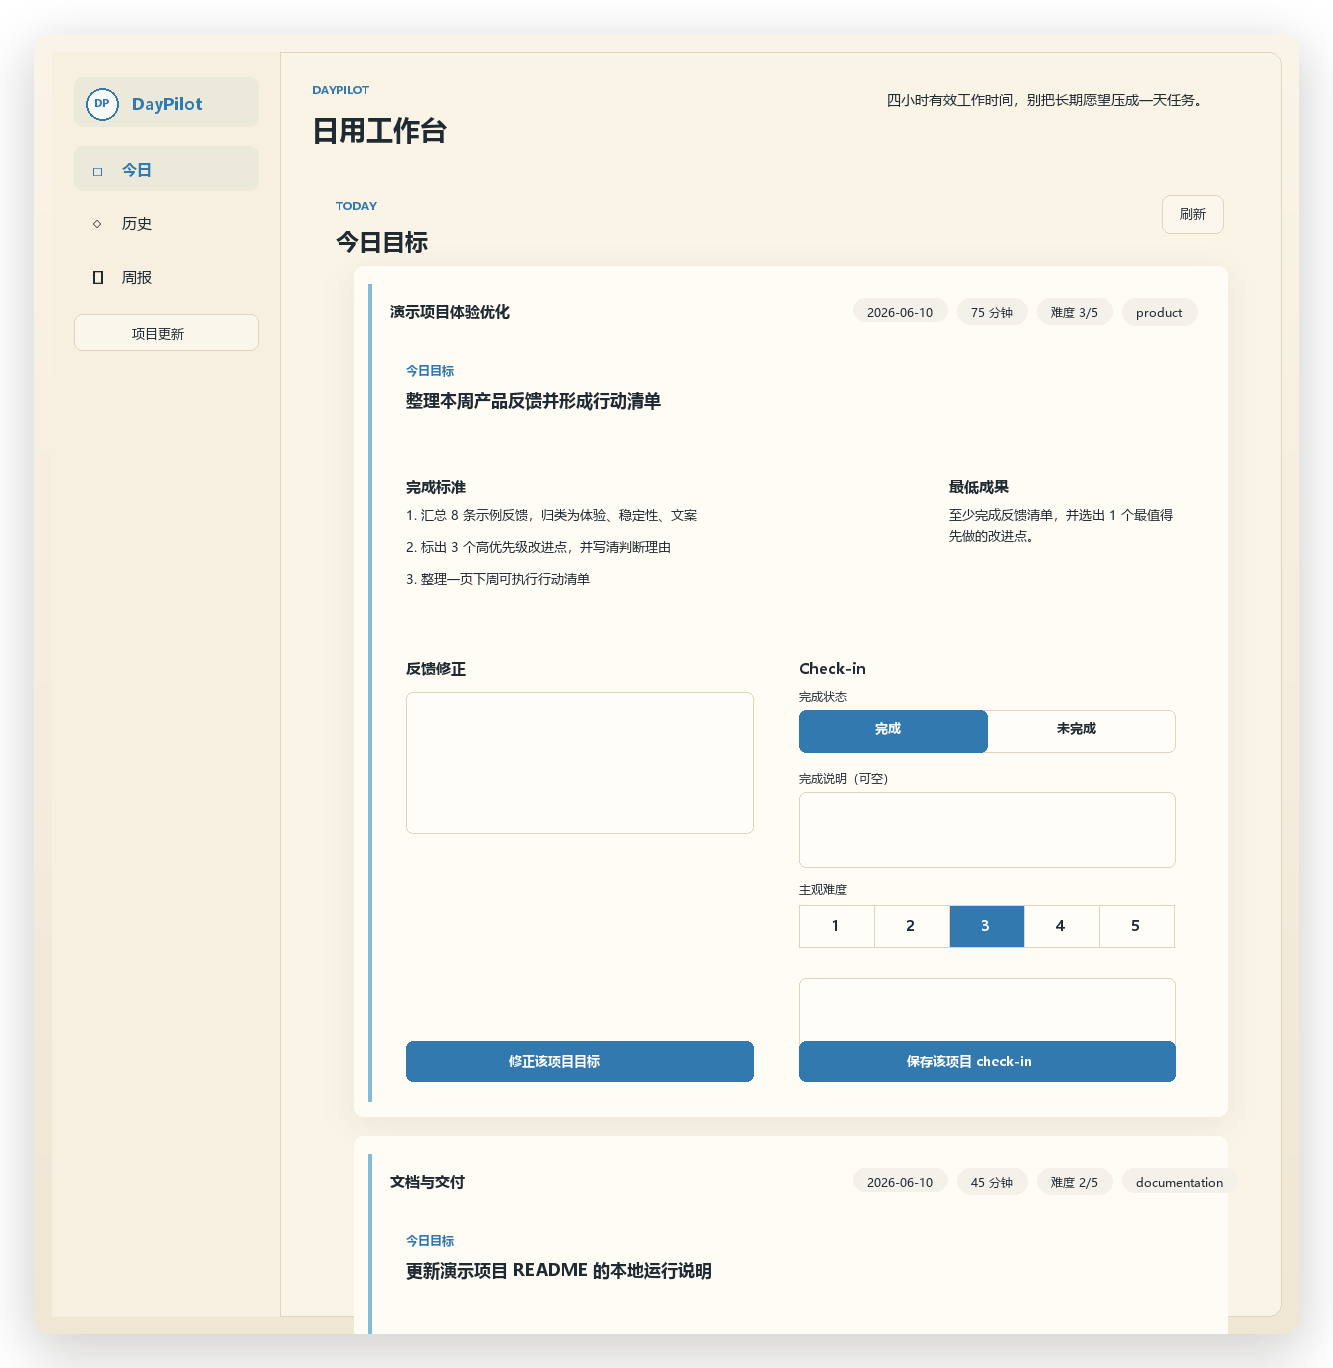
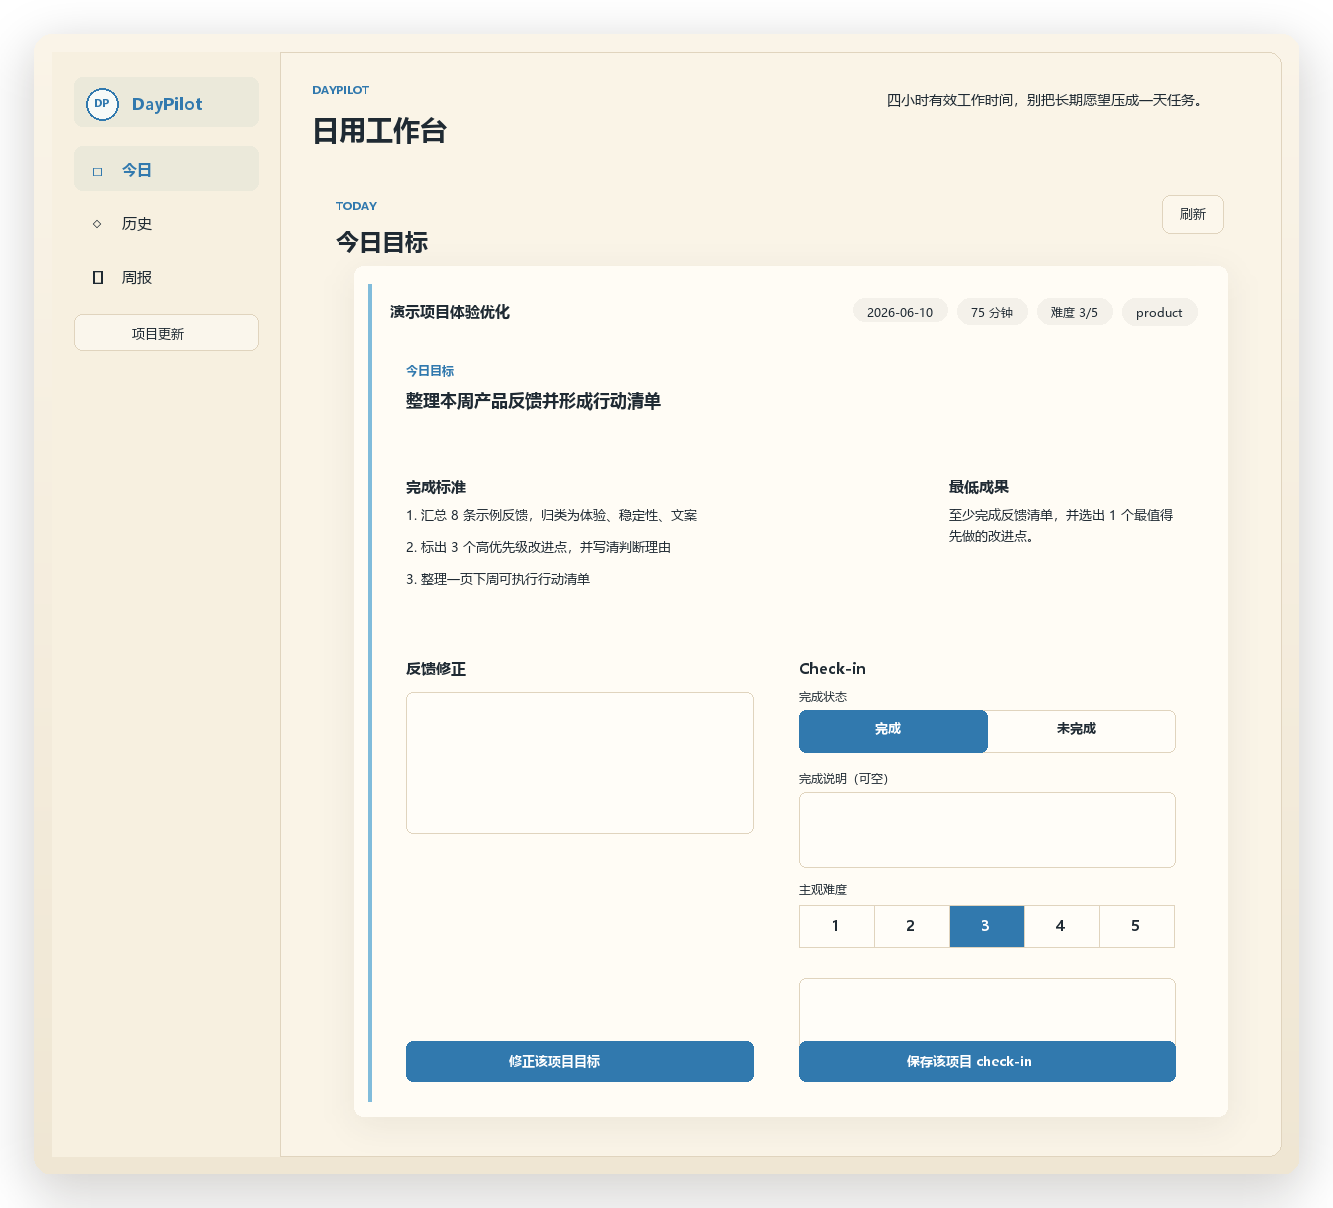
Show a single goal in README screenshot

diff --git a/scripts/generate_mock_screenshots.py b/scripts/generate_mock_screenshots.py
@@ -381,9 +381,6 @@ def today(size: tuple[int, int], path: Path) -> None:
     card_w = right - left - 62
     first_h = 850 if size[1] > 1100 else 620
     draw_goal_card(img, (left + 42, shell_y + 96, left + 42 + card_w, shell_y + 96 + first_h), MOCK_GOALS[0], True)
-    second_y = shell_y + 116 + first_h
-    if second_y < size[1] - 80:
-        draw_goal_card(img, (left + 42, second_y, left + 42 + card_w, second_y + 260), MOCK_GOALS[1], False)
 
     wrap_with_readme_shadow(img).save(path, optimize=True)
 
@@ -427,7 +424,7 @@ def history(size: tuple[int, int], path: Path) -> None:
 
 def main() -> None:
     ASSET_DIR.mkdir(parents=True, exist_ok=True)
-    today((1265, 1300), ASSET_DIR / "daypilot-screenshot-today.png")
+    today((1265, 1140), ASSET_DIR / "daypilot-screenshot-today.png")
     history((1265, 1133), ASSET_DIR / "daypilot-screenshot-history.png")
     today((1280, 900), ASSET_DIR / "daypilot-today-desktop.png")
     history((1100, 1150), ASSET_DIR / "daypilot-history-desktop.png")